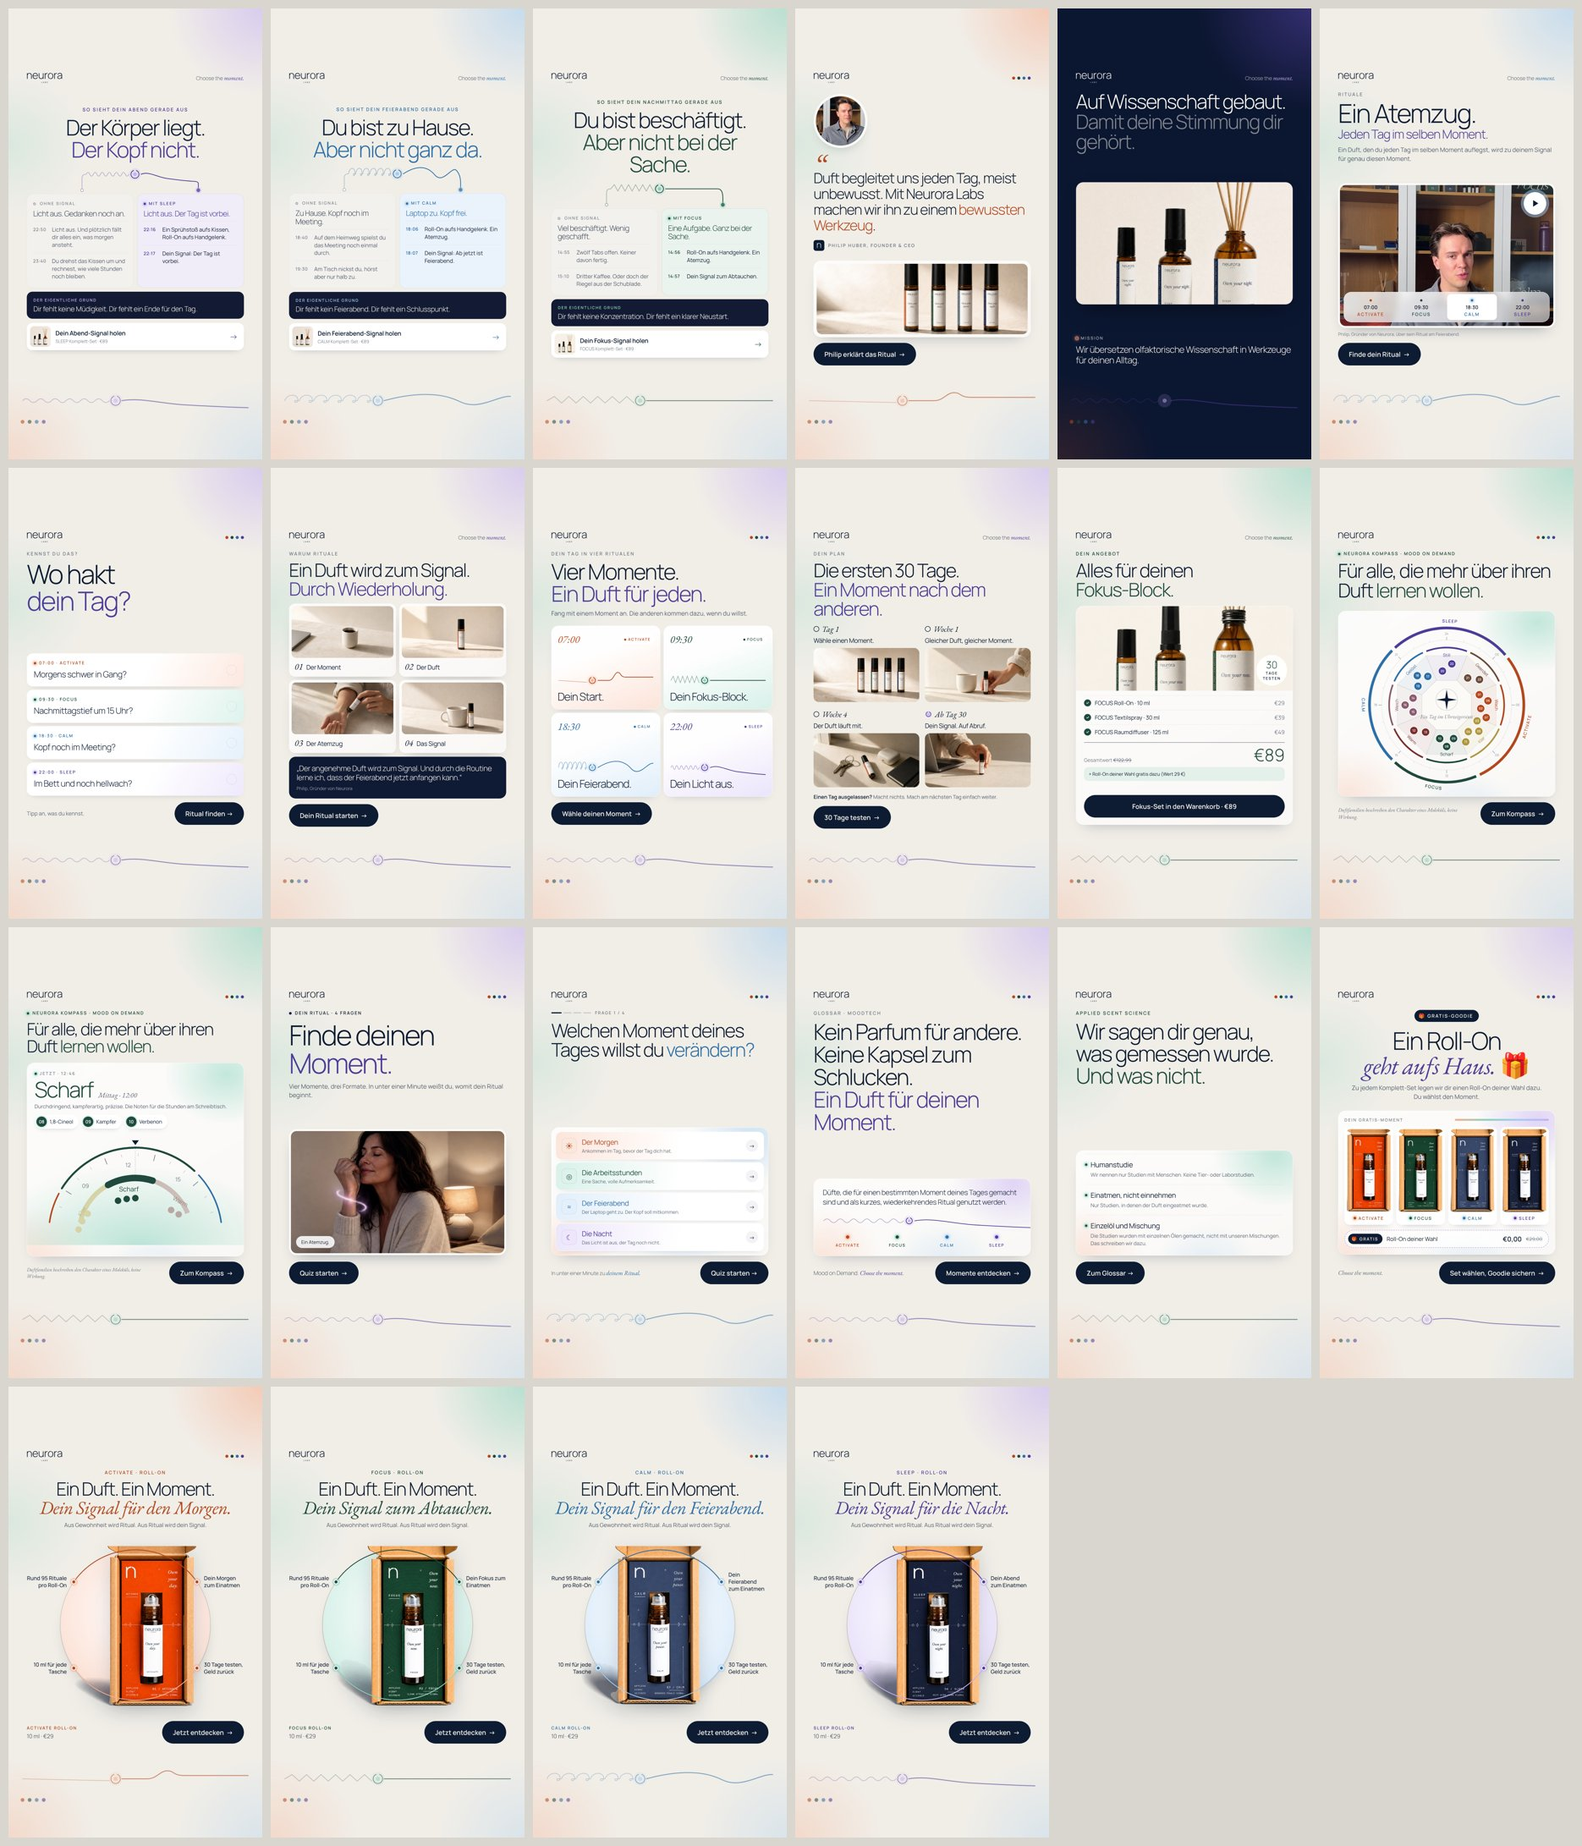
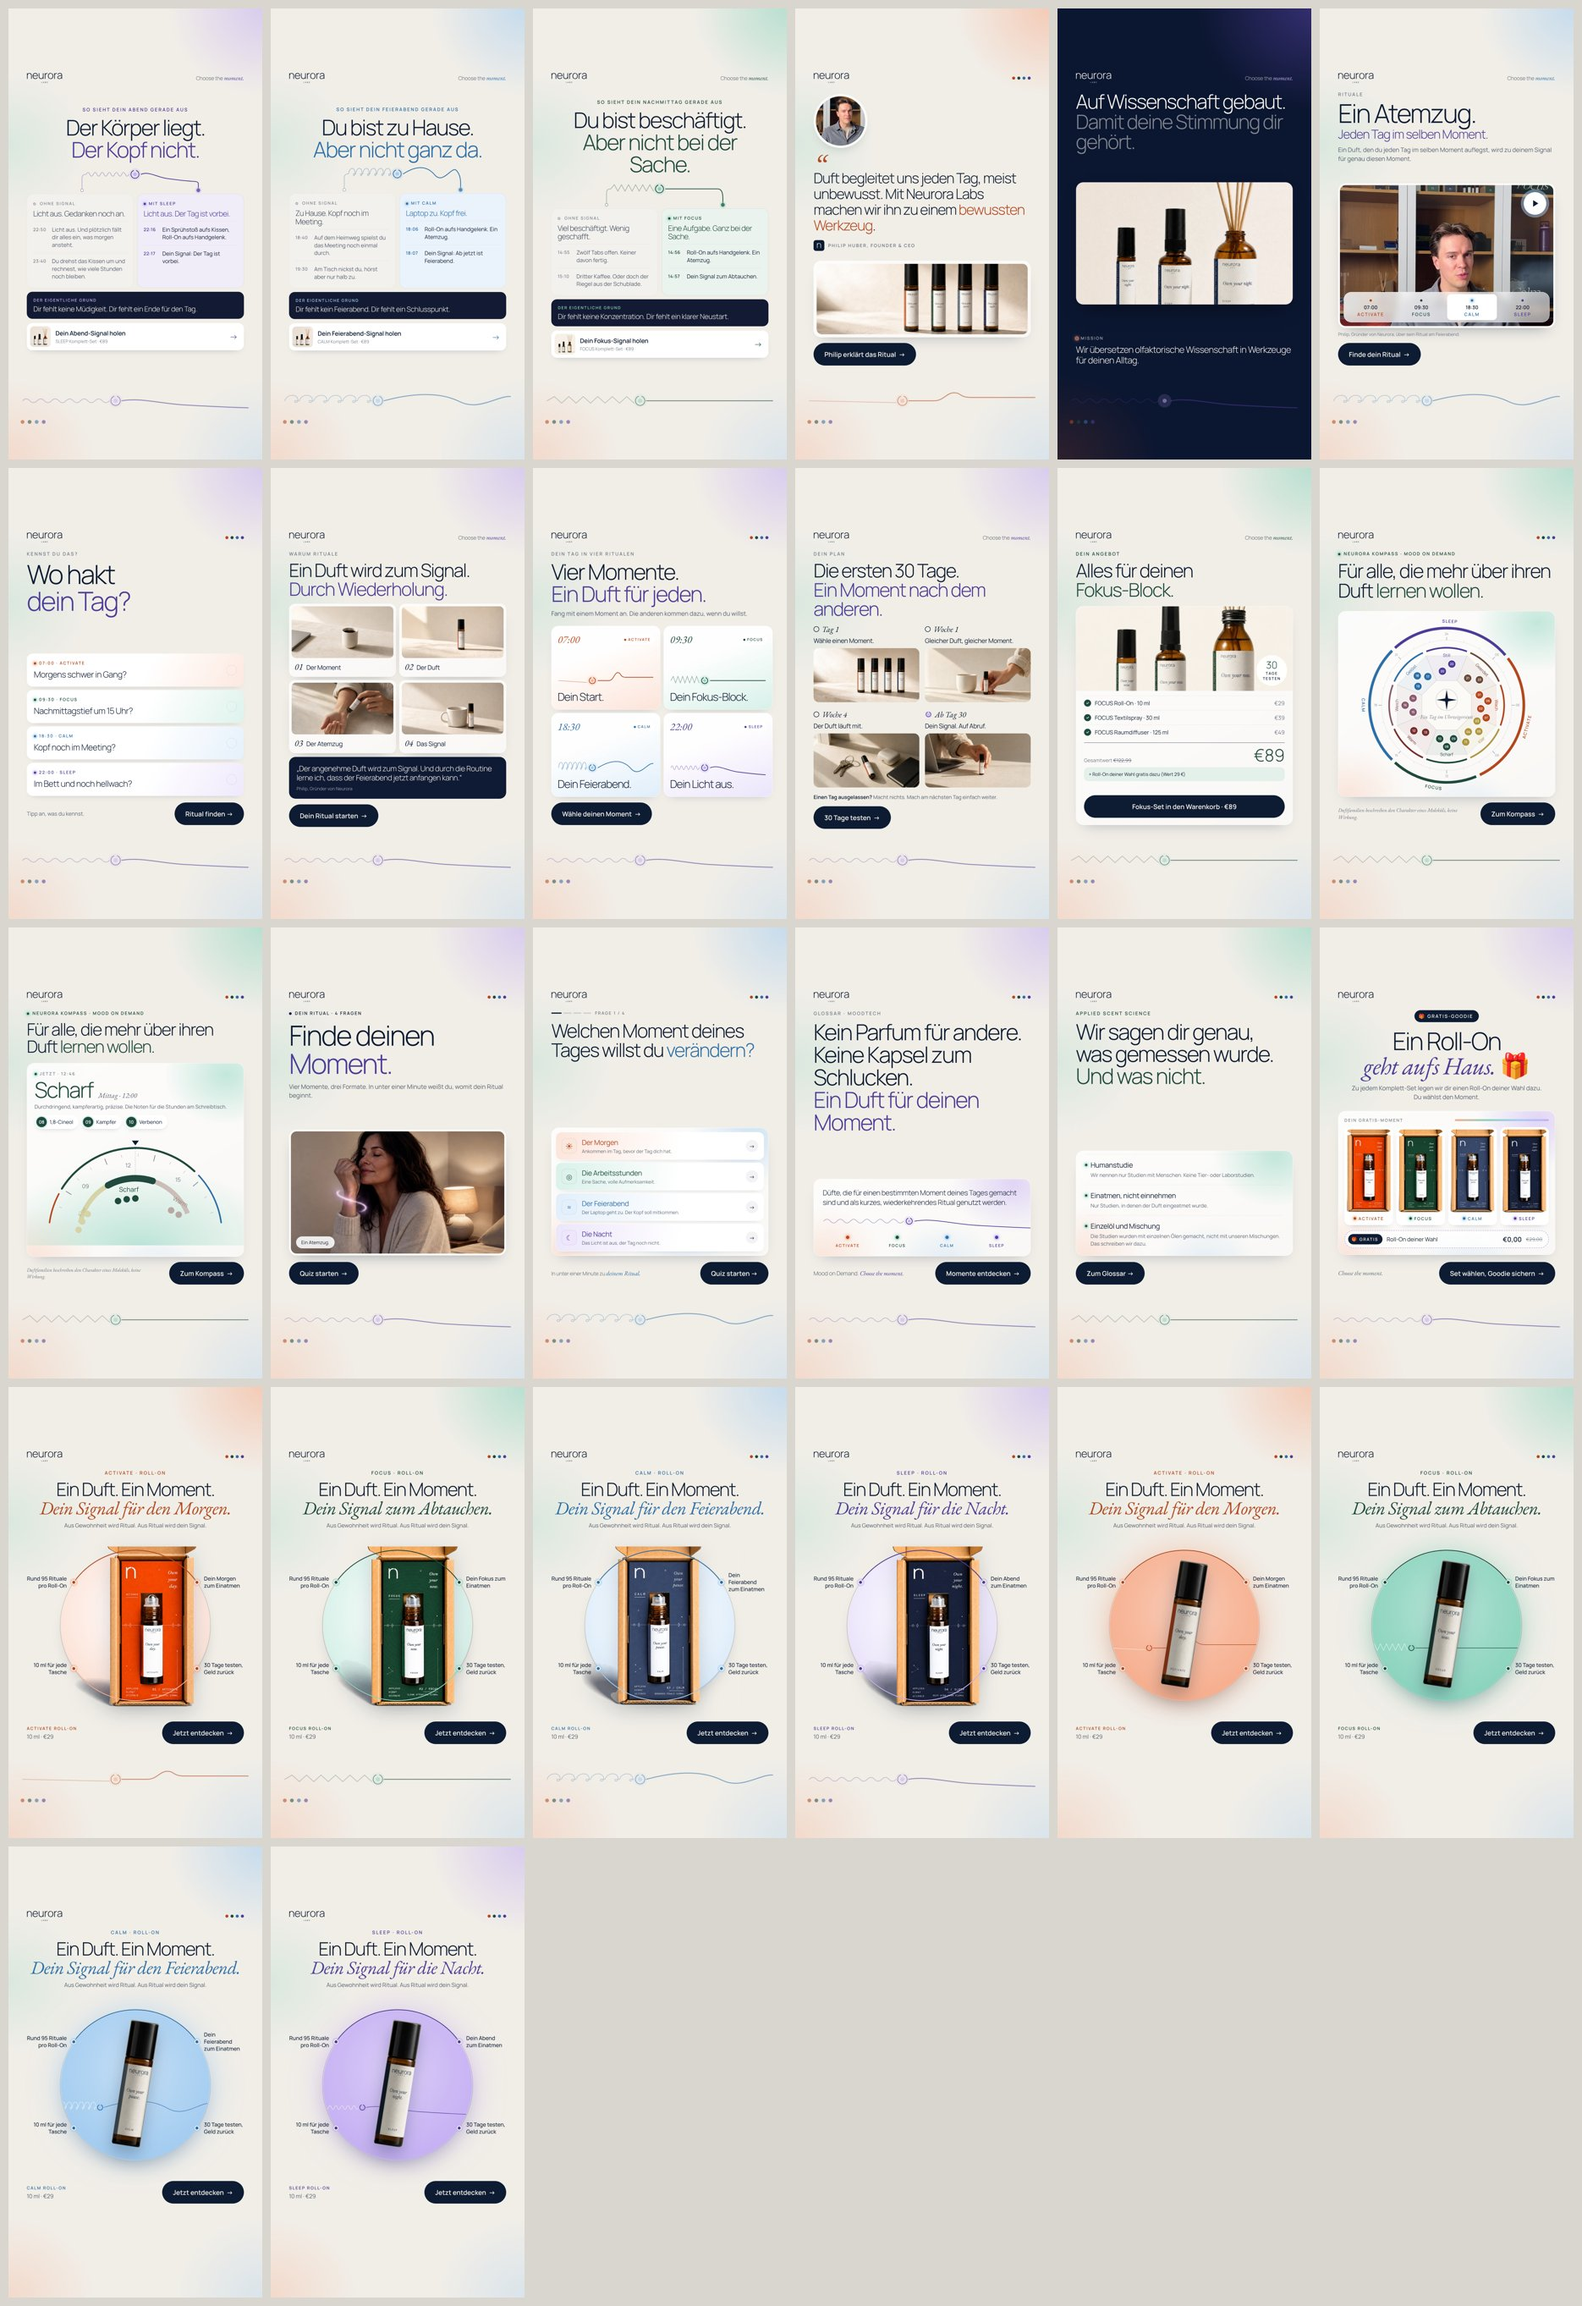
Meta ads: Roll-On signal-ring v2 without packaging, denser state colour and filigree Signal Line
Claude-Session: https://claude.ai/code/session_01QRoExmTLVyJJqyXzJd8417

Changed region(s): [[0.0, 0.0312, 1.0, 0.9973], [0.6513, 0.5921, 0.6824, 0.6233], [0.0, 0.2181, 0.031, 0.2493]]

diff --git a/ads/meta-rollout-2026-11/source/gen3.py b/ads/meta-rollout-2026-11/source/gen3.py
@@ -1,7 +1,7 @@
 #!/usr/bin/env python3
 """Round 3: 17 Gratis-Goodie + 18 Roll-On series (all four states), Brand Book 2.0 look."""
 import math, os, sys
-from gen import S, A
+from gen import S, A, gesture_before, gesture_after, o_mark
 from gen2 import page, top, DOTS
 
 ROOT = os.path.dirname(os.path.abspath(__file__))
@@ -54,7 +54,7 @@ RO = {
     "sleep":    dict(sig="Dein Signal für die Nacht.", air="Dein Abend zum Einatmen"),
 }
 
-def ring(st, W, D):
+def ring(st, W, D, bottle=False):
     c = S[st]; r = D / 2; cx = W / 2; cy = r + 30; H = D + 60
     def pt(deg):
         a = math.radians(deg); return cx + r * math.sin(a), cy - r * math.cos(a)
@@ -62,7 +62,7 @@ def ring(st, W, D):
         x0, y0 = pt(d0); x1, y1 = pt(d1)
         return f"M {x0:.1f} {y0:.1f} A {r} {r} 0 {1 if (d1 - d0) % 360 > 180 else 0} 1 {x1:.1f} {y1:.1f}"
     calls = [(305, "Rund 95 Rituale pro Roll-On"), (235, "10 ml für jede Tasche"), (55, RO[st]["air"]), (125, "30 Tage testen, Geld zurück")]
-    svg = (f"<svg width='{W}' height='{H}' style='position:absolute;left:0;top:0;z-index:2;overflow:visible'>"
+    svg = (f"<svg width='{W}' height='{H}' style='position:absolute;left:0;top:0;z-index:3;overflow:visible'>"
            f"<circle cx='{cx}' cy='{cy}' r='{r}' fill='none' stroke='{c['c']}' stroke-opacity='.28' stroke-width='2'/>"
            f"<path d='{arc(305, 55)}' fill='none' stroke='{c['c']}' stroke-width='3.5' stroke-linecap='round'/>"
            f"<path d='{arc(125, 235)}' fill='none' stroke='{c['g']}' stroke-width='3.5' stroke-linecap='round'/>")
@@ -74,17 +74,35 @@ def ring(st, W, D):
         left = deg > 180
         style = (f"right:{W - x + 30:.0f}px;text-align:right" if left else f"left:{x + 30:.0f}px")
         labels += (f"<div style='position:absolute;{style};top:{y:.0f}px;transform:translateY(-50%);max-width:{x - 30 if left else W - x - 30:.0f}px;"
-                   f"font-size:23px;line-height:1.3;font-weight:500;z-index:3'>{t}</div>")
+                   f"font-size:23px;line-height:1.3;font-weight:500;z-index:4'>{t}</div>")
     svg += "</svg>"
-    disc = (f"<div style='position:absolute;left:{cx - r + 4}px;top:{cy - r + 4}px;width:{D - 8}px;height:{D - 8}px;border-radius:50%;"
-            f"background:radial-gradient(circle at 50% 42%,#fff 0%,color-mix(in srgb,{c['g']} 30%,#fff) 62%,color-mix(in srgb,{c['g']} 55%,#fff) 100%);"
-            f"box-shadow:0 40px 80px -50px rgba(13,27,51,.45)'></div>")
-    bh = D + 40
-    img = (f"<img src='{A}nr-box-{st}-cut.png' style='position:absolute;left:50%;transform:translateX(-50%);top:{cy - bh / 2 + 4:.0f}px;height:{bh}px;"
-           f"z-index:1;filter:drop-shadow(0 30px 40px rgba(13,27,51,.18))'>")
-    return f"<div style='position:relative;width:{W}px;height:{H}px;margin:0 auto'>{disc}{img}{svg}{labels}</div>"
+    if not bottle:
+        disc = (f"<div style='position:absolute;left:{cx - r + 4}px;top:{cy - r + 4}px;width:{D - 8}px;height:{D - 8}px;border-radius:50%;"
+                f"background:radial-gradient(circle at 50% 42%,#fff 0%,color-mix(in srgb,{c['g']} 30%,#fff) 62%,color-mix(in srgb,{c['g']} 55%,#fff) 100%);"
+                f"box-shadow:0 40px 80px -50px rgba(13,27,51,.45)'></div>")
+        bh = D + 40
+        img = (f"<img src='{A}nr-box-{st}-cut.png' style='position:absolute;left:50%;transform:translateX(-50%);top:{cy - bh / 2 + 4:.0f}px;height:{bh}px;"
+               f"z-index:1;filter:drop-shadow(0 30px 40px rgba(13,27,51,.18))'>")
+        inner = ""
+    else:
+        disc = (f"<div style='position:absolute;left:{cx - r + 3}px;top:{cy - r + 3}px;width:{D - 6}px;height:{D - 6}px;border-radius:50%;"
+                f"background:radial-gradient(circle at 50% 40%,color-mix(in srgb,{c['g']} 62%,#fff) 0%,color-mix(in srgb,{c['g']} 88%,#fff) 48%,{c['g']} 78%,color-mix(in srgb,{c['g']} 80%,{c['c']}) 100%);"
+                f"box-shadow:0 0 120px 10px color-mix(in srgb,{c['g']} 55%,transparent),0 50px 90px -50px rgba(13,27,51,.5)'></div>")
+        # filigree Signal Line through the circle, behind the bottle
+        ly = cy + r * 0.30; x0 = cx - r; x1 = cx + r; ox = cx - r * 0.47
+        d1 = f"M {x0:.1f} {ly:.1f}" + gesture_before(st, x0, ox - 16, ly)
+        d2 = f"M {ox + 16:.1f} {ly:.1f}" + gesture_after(st, ox + 16, x1, ly)
+        inner = (f"<svg width='{W}' height='{H}' style='position:absolute;left:0;top:0;z-index:1'>"
+                 f"<defs><clipPath id='dc'><circle cx='{cx}' cy='{cy}' r='{r - 3}'/></clipPath></defs><g clip-path='url(#dc)'>"
+                 f"<path d='{d1}' fill='none' stroke='#fff' stroke-opacity='.85' stroke-width='1.6' stroke-linecap='round'/>"
+                 f"<path d='{d2}' fill='none' stroke='{c['c']}' stroke-width='1.8' stroke-linecap='round'/>"
+                 f"{o_mark(round(ox), round(ly), st, 11)}</g></svg>")
+        bh = D * 0.84
+        img = (f"<img src='{A}nr-rollon-{st}-cut.png' style='position:absolute;left:50%;top:{cy - bh / 2 - 6:.0f}px;height:{bh:.0f}px;"
+               f"transform:translateX(-50%) rotate(9deg);z-index:2;filter:drop-shadow(0 36px 34px rgba(13,27,51,.28))'>")
+    return f"<div style='position:relative;width:{W}px;height:{H}px;margin:0 auto'>{disc}{inner}{img}{svg}{labels}</div>"
 
-def ad_rollon(st, fmt):
+def ad_rollon(st, fmt, bottle=False):
     c = S[st]; tall = fmt == "916"
     W = 924 if tall else 936
     D = 640 if tall else 600
@@ -93,14 +111,15 @@ def ad_rollon(st, fmt):
         f"<div class='eyebrow'>{c['name']} · Roll-On</div>"
         f"<h1 style='margin-top:16px;font-size:{78 if tall else 72}px'>Ein Duft. Ein Moment.<span class='acc it'>{RO[st]['sig']}</span></h1>"
         "<p class='lead' style='margin-top:18px;font-size:24px'>Aus Gewohnheit wird Ritual. Aus Ritual wird dein Signal.</p></div>"
-      + "<div class='grow'></div>" + ring(st, W, D) + "<div class='grow'></div>"
+      + "<div class='grow'></div>" + ring(st, W, D, bottle) + "<div class='grow'></div>"
       + "<div style='display:flex;align-items:center;justify-content:space-between;gap:24px'>"
         f"<div><div class='lbl' style='color:var(--c)'>{c['name']} Roll-On</div><div style='font-size:24px;margin-top:6px;color:rgba(13,27,51,.7)'>10 ml · €29</div></div>"
         "<div class='btn'>Jetzt entdecken &nbsp;→</div></div>")
-    return page(f"{c['name']} Roll-On", st, fmt, body, EXTRA)
+    return page(f"{c['name']} Roll-On", st, fmt, body, EXTRA + ("body > svg{display:none}" if bottle else ""))
 
 ADS3 = [("17-gratis-goodie", ad_goodie)] + [
-    (f"18{l}-rollon-{s}", (lambda s: (lambda f: ad_rollon(s, f)))(s)) for l, s in zip("abcd", ORDER)]
+    (f"18{l}-rollon-{s}", (lambda s: (lambda f: ad_rollon(s, f)))(s)) for l, s in zip("abcd", ORDER)] + [
+    (f"19{l}-rollon-signal-{s}", (lambda s: (lambda f: ad_rollon(s, f, True)))(s)) for l, s in zip("abcd", ORDER)]
 
 if __name__ == "__main__":
     for key, fn in ADS3:

diff --git a/ads/meta-rollout-2026-11/source/bottlecut.py b/ads/meta-rollout-2026-11/source/bottlecut.py
@@ -1,0 +1,42 @@
+import sys, numpy as np
+from PIL import Image, ImageFilter
+src, outdir = sys.argv[1], sys.argv[2]
+img = Image.open(src).convert('RGB'); a = np.asarray(img).astype(np.float32)
+names = ['activate', 'focus', 'calm', 'sleep']
+Y0, Y1 = 462, 1660
+for k, n in enumerate(names):
+    xa, xb = 330 + 350 * k, 650 + 350 * k
+    L = []; R = []
+    for y in range(Y0, Y1):
+        row = a[y, xa:xb]; lum = row.mean(1)
+        bgl = np.median(lum[:12]); bgr = np.median(lum[-12:])
+        dl = np.abs(lum - bgl) > 32; dr = np.abs(lum - bgr) > 32
+        l = np.argmax(dl); r = len(lum) - 1 - np.argmax(dr[::-1])
+        L.append(xa + l); R.append(xa + r)
+    L = np.array(L, float); R = np.array(R, float)
+    # body is straight: robust constant edges from the middle, keep per-row only near the base for rounding
+    lm, rm = np.median(L[100:1000]), np.median(R[100:1000])
+    h = Y1 - Y0; mask = np.zeros(a.shape[:2], np.float32)
+    for i, y in enumerate(range(Y0, Y1)):
+        l, r = lm, rm
+        if i > h - 12: inset = (i - (h - 12)); l, r = lm + inset * .9, rm - inset * .9   # rounded base
+        if i < 14: inset = 14 - i; l, r = lm + inset * .6, rm - inset * .6  # rounded cap top
+        mask[y, int(round(l)) + 1:int(round(r))] = 1
+    # strip retouch: saturated band at the left of the label
+    ly0, ly1 = 880, 1570
+    band = a[ly0:ly1, int(lm):int(lm) + 70]
+    sat = (band.max(2) - band.min(2)).mean(0)
+    cols = np.where(sat > 0.45 * sat.max())[0]
+    s0, s1 = int(lm), int(lm) + 37
+    # label vertical extent inside strip region: rows whose strip colour differs from glass
+    cc = a[700:1600, int((lm + rm) / 2)].mean(1); rows = np.where(cc > 150)[0] + 700
+    lt, lb = rows.min(), rows.max()
+    for x in range(s0 + 1, s1 + 1):
+        a[lt:lb + 1, x] = np.median(a[lt + 20:lb - 20, x], axis=0)
+    print(n, 'label', lt, lb)
+    m = Image.fromarray((mask * 255).astype(np.uint8)).filter(ImageFilter.GaussianBlur(1.2))
+    rgba = Image.fromarray(np.clip(a, 0, 255).astype(np.uint8)).convert('RGBA'); rgba.putalpha(m)
+    box = (int(lm) - 6, Y0 - 6, int(rm) + 6, Y1 + 6)
+    rgba.crop(box).save(f'{outdir}/nr-rollon-{n}-cut.png')
+    a = np.asarray(img).astype(np.float32)  # reset for next bottle
+    print(n, 'edges', lm, rm, 'strip', s0, s1)

diff --git a/ads/meta-rollout-2026-11/README.md b/ads/meta-rollout-2026-11/README.md
@@ -32,3 +32,5 @@ Before launch: claims marked in the strategy doc (§9) still need Claims Registe
 - **17 Gratis-Goodie** (Retargeting): „Ein Roll-On geht aufs Haus. 🎁“. Zeigt die vier Geschenk-Boxen, ohne Schwellenwert, ohne Enddatum. Ziel: `/collections/sets`.
 - **18a–d Roll-On Signal-Ring** (alle vier Zustände): ersetzt die dunkle Anzeige „Kopf noch an? Licht aus, Duft an.“. Neue Botschaft „Ein Duft. Ein Moment. Dein Signal für …“. Creme, Frosted, Mood Dots, Signal-Line-Ring und die offene Box als Hero. Die Callouts bleiben, aus „4 ätherische Öle“ wird „Rund 95 Rituale pro Roll-On“.
 - Generator: `source/gen3.py`. Freisteller der Boxen: `source/cutout.py`.
+- **19a–d Roll-On Signal-Ring, Flasche ohne Verpackung**: gleiche Texte wie 18a–d. Die Flasche steht leicht geneigt in einem dichteren Zustandsfarb-Kreis. Durch den Kreis läuft eine feine, zustandsspezifische Signal Line hinter der Flasche. In 9:16 entfällt das untere Signal-Band (eine Signal Line pro Fläche).
+  Die Flaschen sind aus dem Brand-Atlas-Packshot „Sleep Roll-On“ (Line-up) freigestellt. Der seitliche Farbstreifen wurde retuschiert, weil der KI-Packshot dort verfälschten Text zeigt („SCEN YOU CAN FEEY…“). Sobald echte Freisteller-Fotos der Flaschen vorliegen, bitte austauschen. Skript: `source/bottlecut.py`.
